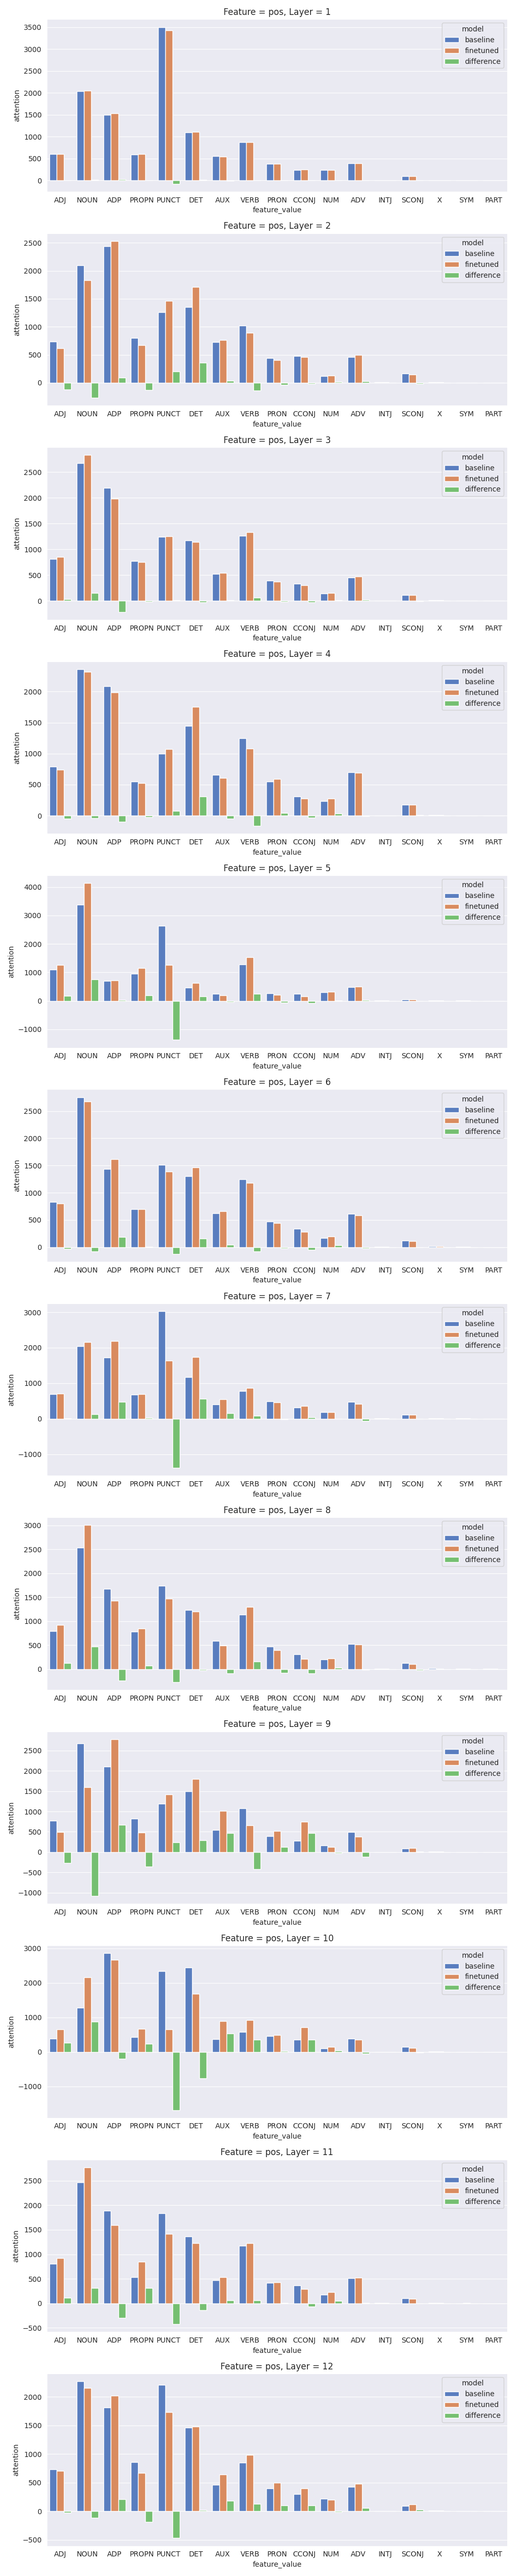
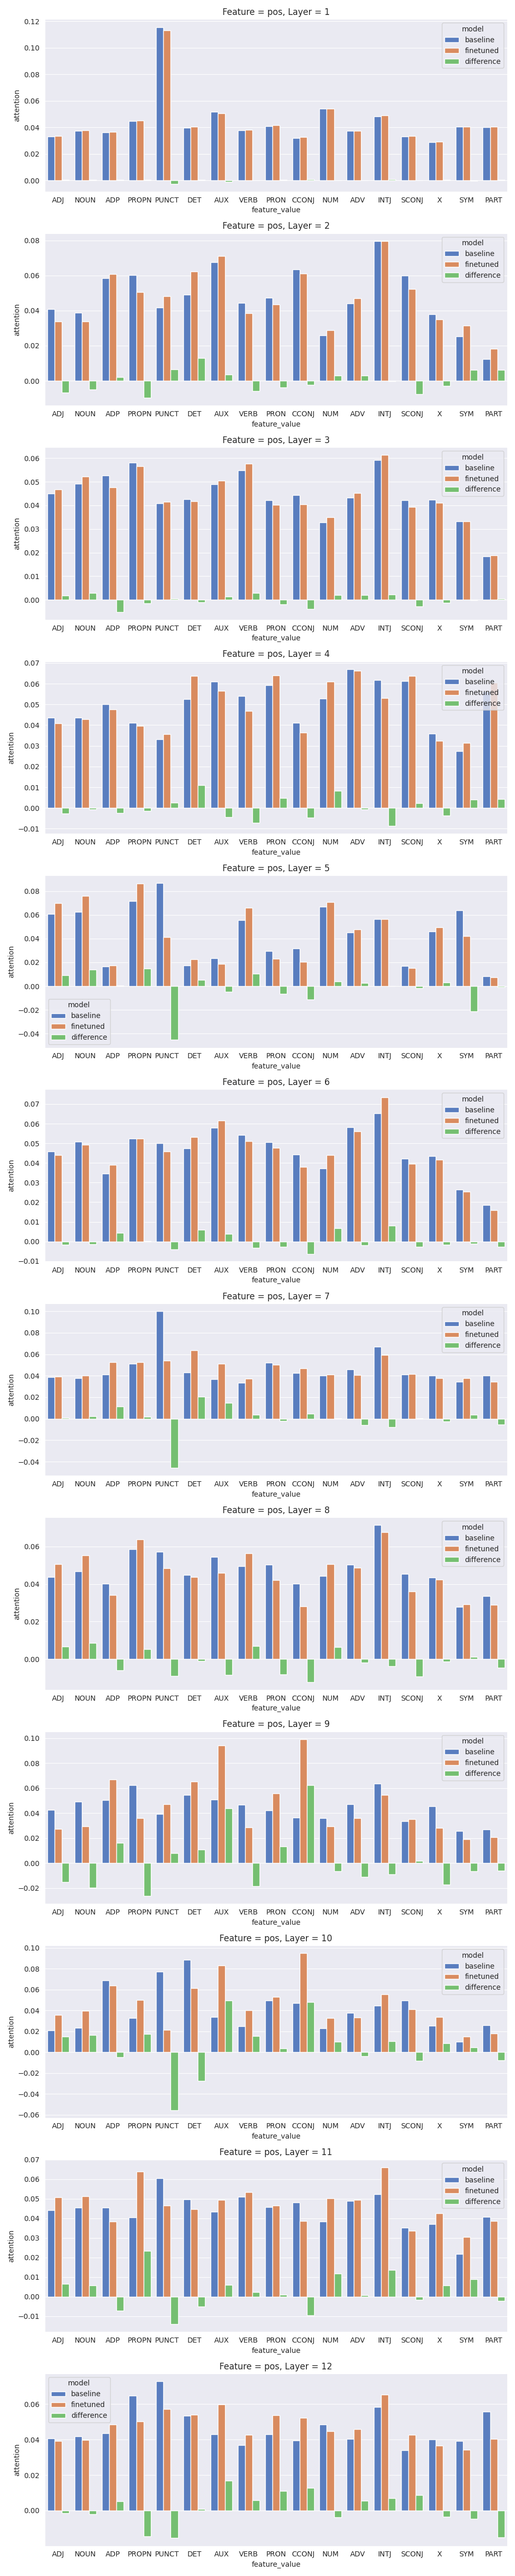
normalized distances by feature value occurrences

diff --git a/scripts/ud_preprocessnig/sentence_extraction.py b/scripts/ud_preprocessnig/sentence_extraction.py
@@ -1,33 +1,56 @@
+from __future__ import annotations
+from typing import List
 import pandas as pd
 import argparse
+
+######## DA FINIRE!!!
 
 
 class Token():
 
-    def __init__(self, word):
+    def __init__(self, index:int, word:str):
+        
+        # Token info
+        self.token_idx = index
         self.word = word
+        self.head_idx = None
+       
+        # Token features
         self.length = len(word)
-        self.index = None
         self.pos = None
-        self.root_dist = None
+        self.head_dist = None
+        self.relation_type = None
+        self.ariety = 0
 
-    def set_features_from_line(self, splitted_line):
+
+    def set_features_from_line(self, splitted_line: List[str]):
         self.pos = splitted_line[3]
-        self.root_dist = int(splitted_line[6])
+        self.head_idx = int(splitted_line[6])
+        self.head_dist = self.head_idx - self.token_idx if self.head_idx != 0 else 0
+        self.relation_type = splitted_line[7]
+
+    def __str__(self):
+        return f'{self.token_idx}\t{self.word}\t{self.head_dist}'
+
 
 
 class Sentence():
 
-    def __init__(self, sentence_id):
+    def __init__(self, sentence_id:str):
         self.sentence_id = sentence_id
-        self.tokens = []
+        self.tokens = dict[Token]()
 
-    def add_token(self, token):
-        self.tokens.append(token)
+    def add_token(self, token:Token):
+        self.tokens[token.token_idx] = token    
+
+    def set_tokens_sentence_level_features(self):
+        for token in self.tokens.values():
+            if token.head_idx != 0 and token.pos != 'PUNCT':
+                try:
+                    self.tokens[token.head_idx].ariety += 1
+                except:
+                    self.tokens[token.head_idx-1].ariety += 1 # Possibile errore di annotazione?
     
-    def set_token_ids(self):
-        for token_idx, token in enumerate(self.tokens):
-            token.index = token_idx + 1
 
 def load_sentences(src_path):
     sentences = []
@@ -38,7 +61,7 @@ def load_sentences(src_path):
     for line in open(src_path):
         if line.startswith('# sent_id ='):
             if sentence:
-                sentence.set_token_ids()
+                sentence.set_tokens_sentence_level_features()
                 sentences.append(sentence)
             sent_id = line[len('# sent_id = '):].strip()
             sentence = Sentence(sent_id)
@@ -53,37 +76,40 @@ def load_sentences(src_path):
                 word_ids = splitted_line[0].split('-')
                 lines_to_skip = int(word_ids[1]) - int(word_ids[0]) + 1 
                 take_features = True 
-                token = Token(word=word)    # inizializzo il token solo con la forma
+                token = Token(index=int(word_ids[0]),word=word)    # inizializzo il token solo con la forma
                 sentence.add_token(token)
             else:
                 if lines_to_skip == 0:              # parola normale
-                    token = Token(word=word)
+                    token = Token(index=int(splitted_line[0]), word=word)
                     token.set_features_from_line(splitted_line)
                     sentence.add_token(token)
                 if take_features:                   # sotto-parole
-                    sentence.tokens[-1].set_features_from_line(splitted_line)   # prendo le features dalla prima sottoparola
+                    sentence.tokens[list(sentence.tokens.keys())[-1]].set_features_from_line(splitted_line)   # prendo le features dalla prima sottoparola
                     take_features = False
 
                 lines_to_skip = max(0, lines_to_skip-1)
-    sentence.set_token_ids()    # rimane fuori l'ultima frase
+    sentence.set_tokens_sentence_level_features()    # rimane fuori l'ultima frase
     sentences.append(sentence)
     return sentences
 
 
 def create_sentences_df(sentences, min_length):
-    sentences_dict = {'sentence_id':[] , 'tokens':[], 'index':[], 'length':[], 'pos':[], 'root_dist':[]}
+    sentences_dict = {'sentence_id':[] , 'tokens':[], 'index':[], 'length':[], 'pos':[], 'head_dist':[], 'relation_type':[], 'ariety': []}
 
     for sentence in sentences:
         if sentence.sentence_id in ['tut-3572', 'tut-3587', '2_Europarl-194', '2_Europarl-200', '2_Europarl-247', '2_Europarl-265', 
                                     '2_Europarl-267']: # lead to error due to special characters    
             continue
         if len(sentence.tokens) >= min_length:
+            sentence_tokens = list(sentence.tokens.values())
             sentences_dict['sentence_id'].append(sentence.sentence_id)
-            sentences_dict['tokens'].append([token.word for token in sentence.tokens])
-            sentences_dict['index'].append([token.index for token in sentence.tokens])
-            sentences_dict['length'].append([token.length for token in sentence.tokens])
-            sentences_dict['pos'].append([token.pos for token in sentence.tokens])
-            sentences_dict['root_dist'].append([token.root_dist for token in sentence.tokens])
+            sentences_dict['tokens'].append([token.word for token in sentence_tokens])
+            sentences_dict['index'].append([token.token_idx for token in sentence_tokens])
+            sentences_dict['length'].append([token.length for token in sentence_tokens])
+            sentences_dict['pos'].append([token.pos for token in sentence_tokens])
+            sentences_dict['head_dist'].append([token.head_dist for token in sentence_tokens])
+            sentences_dict['relation_type'].append([token.relation_type for token in sentence_tokens])
+            sentences_dict['ariety'].append([token.ariety for token in sentence_tokens])
 
     return pd.DataFrame.from_dict(sentences_dict)
 

diff --git a/scripts/visualize_attention_shift.py b/scripts/visualize_attention_shift.py
@@ -70,6 +70,7 @@ def add_layer_attention_to_dataset(dataset, baseline_attention_dir, finetuned_at
 def sum_attention_across_dataset(dataset, feature):
     attention_counter_baseline = {}
     attention_counter_finetuned = {}
+    feature_occurrences = {}
 
     for el in dataset:
         assert len(el[feature]) == len(el['baseline_attention']) == len(el['finetuned_attention'])
@@ -77,8 +78,13 @@ def sum_attention_across_dataset(dataset, feature):
             if feature_value not in attention_counter_baseline:
                 attention_counter_baseline[feature_value] = 0
                 attention_counter_finetuned[feature_value] = 0
+                feature_occurrences[feature_value] = 0
             attention_counter_baseline[feature_value] += attention_bl
             attention_counter_finetuned[feature_value] += attention_ft
+            feature_occurrences[feature_value] += 1
+    for feature_value, num_occurrences in feature_occurrences.items():
+        attention_counter_baseline[feature_value] /= num_occurrences
+        attention_counter_finetuned[feature_value] /= num_occurrences
     return attention_counter_baseline, attention_counter_finetuned
 
 
@@ -114,7 +120,7 @@ def main():
     baseline_attention_dir = 'data/attentions/ud/baseline'
     finetuned_attention_dir = f'data/attentions/ud/finetuned/user_{args.user_id}'
 
-    output_dir = f'data/results/attention_shift_abs/{args.feature}'
+    output_dir = f'data/results/attention_shift/{args.feature}'
     if not os.path.exists(output_dir):
         os.makedirs(output_dir)
     output_path = os.path.join(output_dir, f'user_{args.user_id}.png')
